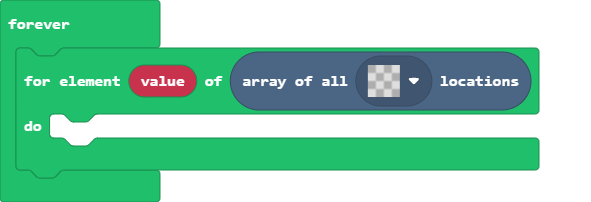
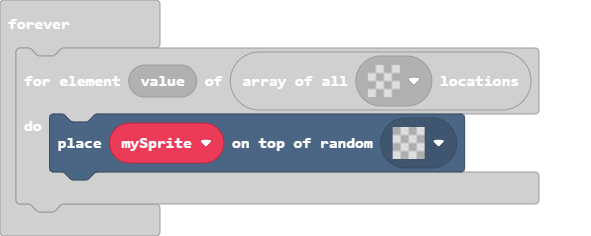
random

diff --git a/main.ts b/main.ts
@@ -334,6 +334,7 @@ global_playerPosition = sprites.create(img`
 loadMenuScreen()
 forever(function () {
     for (let value of tiles.getTilesByType(assets.tile`transparency16`)) {
-    	
+        let mySprite: Sprite = null
+        tiles.placeOnRandomTile(mySprite, assets.tile`transparency16`)
     }
 })
